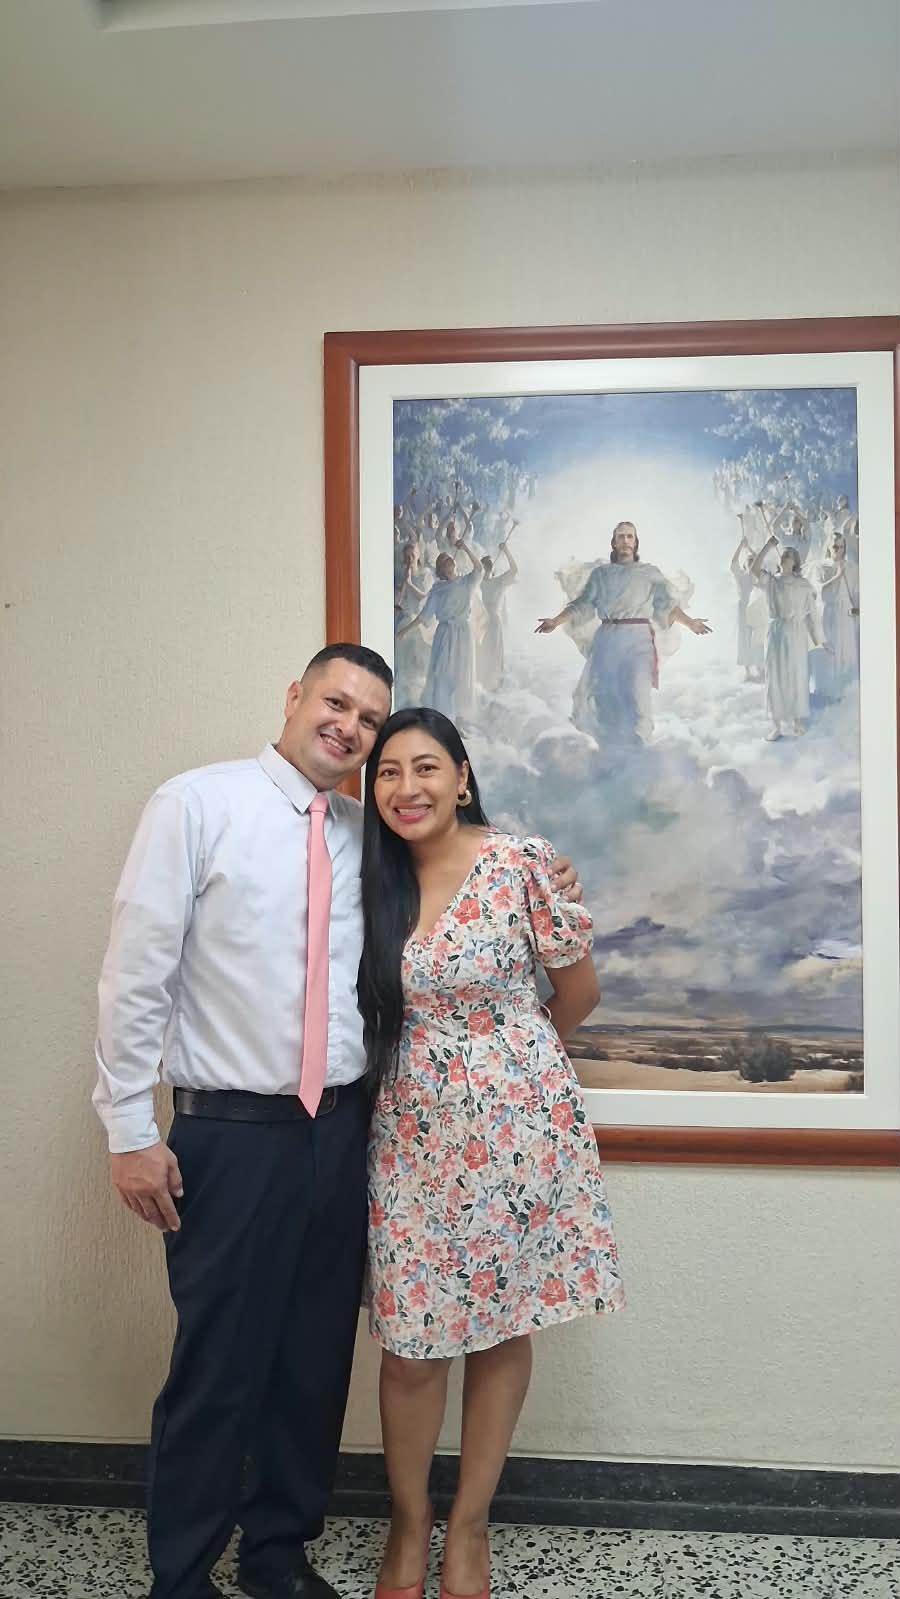
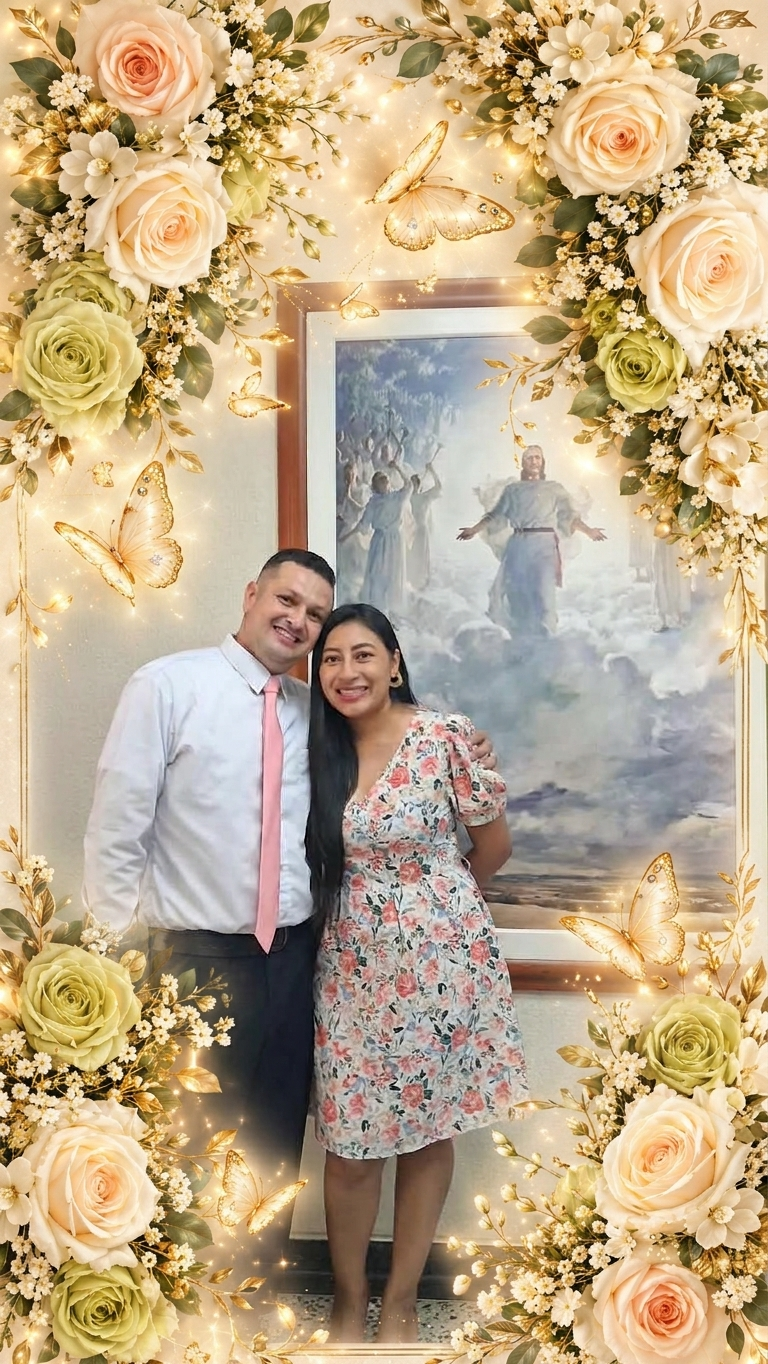
Publicar nueva foto y música incrustada
Sustituye la foto de la pareja, elimina el título solicitado y conserva el mensaje de bienvenida actualizado. Reproduce el video oficial completo de la canción dentro de la invitación al abrir el sello, con control interno de pausa.

diff --git a/index.html b/index.html
@@ -76,6 +76,7 @@ section{padding:72px 22px}.wrap{max-width:940px;margin:auto}.section-title{text-
 .music-control-section{text-align:center;padding-top:28px;padding-bottom:28px;background:#f5eedf}
 .music-button{display:inline-flex;align-items:center;justify-content:center;gap:12px;min-width:250px;padding:18px 32px;border:1px solid #d7bc7b;border-radius:999px;background:linear-gradient(135deg,#fffdf7,#f0e3c4);color:#4e5944;box-shadow:0 8px 20px #58462224,inset 0 1px 0 #fff;cursor:pointer;font:700 19px 'DM Sans',Arial,sans-serif;transition:transform .2s ease,box-shadow .2s ease}
 .music-button:hover,.music-button:focus-visible{transform:translateY(-3px);box-shadow:0 12px 24px #58462238,inset 0 1px 0 #fff}
+.youtube-song-player{position:fixed;left:-220px;top:-220px;width:200px;height:200px;opacity:0;pointer-events:none;overflow:hidden}
 footer{text-align:center;padding:45px 20px;background:var(--sage-dark);color:#fff8e8}footer h2{font-weight:normal;font-size:32px;margin:0 0 10px}
 .small{font:18px 'DM Sans',Arial,sans-serif;line-height:1.7;opacity:1;color:#34352f}
 .opening-effects{position:fixed;z-index:20;inset:0;overflow:hidden;pointer-events:none}
@@ -101,7 +102,6 @@ footer{text-align:center;padding:45px 20px;background:var(--sage-dark);color:#ff
       <div class="wrap">
         <div class="eyebrow">Con amor y gratitud</div>
         <h1 class="couple-names">Adriana Quina <span aria-hidden="true">&amp;</span> Jhon Espinosa</h1>
-        <h2 class="section-title">Nuestra historia, nuestro día</h2>
         <p class="subtitle">Dos corazones, un mismo destino y una promesa de amor eterno. Bienvenidos a celebrar el comienzo de nuestro para siempre y amor eterno.</p>
         <div class="photo-frame">
           <span class="floral-corner top-left" aria-hidden="true"></span>
@@ -164,10 +164,9 @@ footer{text-align:center;padding:45px 20px;background:var(--sage-dark);color:#ff
     </section>
 
     <section class="music-control-section" aria-label="Música de la invitación">
-      <a class="music-button" href="https://open.spotify.com/track/0gjhhuqKxswtR1KzYSpSfd" target="_blank" rel="noopener">
-        <span aria-hidden="true">♫</span><span>Escuchar canción completa</span>
-      </a>
-      <p class="small">La canción completa se abre en Spotify.</p>
+      <button class="music-button" id="musicToggle" type="button" aria-pressed="false">
+        <span aria-hidden="true">♫</span><span id="musicButtonLabel">Escuchar música</span>
+      </button>
     </section>
 
     <footer>
@@ -176,6 +175,7 @@ footer{text-align:center;padding:45px 20px;background:var(--sage-dark);color:#ff
       <div class="small">4 de diciembre de 2026 · Popayán, Cauca</div>
     </footer>
   </div>
+  <div class="youtube-song-player" aria-hidden="true"><div id="youtubeSongPlayer"></div></div>
 </main>
 <script>
 const weddingDate = new Date('2026-12-04T17:00:00-05:00');
@@ -199,6 +199,49 @@ function makeCalendar(){
  for(let d=1;d<=count;d++){let e=document.createElement('span');e.textContent=d;if(d===weddingDay)e.className='wedding';target.appendChild(e);}
 }
 const cover=document.getElementById('cover'), invite=document.getElementById('invite');
+const musicToggle=document.getElementById('musicToggle');
+const musicButtonLabel=document.getElementById('musicButtonLabel');
+let weddingMusicPlayer=null;
+let musicRequested=false;
+function setMusicState(playing,label){
+ musicToggle.setAttribute('aria-pressed',String(playing));
+ musicButtonLabel.textContent=label;
+}
+function playWeddingMusic(){
+ musicRequested=true;
+ if(weddingMusicPlayer){
+  weddingMusicPlayer.playVideo();
+  setMusicState(true,'Iniciando música…');
+ }else{
+  setMusicState(false,'Preparando música…');
+ }
+}
+window.onYouTubeIframeAPIReady=()=>{
+ const playerVars={autoplay:0,controls:0,disablekb:1,playsinline:1,rel:0};
+ if(location.protocol==='http:'||location.protocol==='https:')playerVars.origin=location.origin;
+ weddingMusicPlayer=new YT.Player('youtubeSongPlayer',{
+  width:'200',
+  height:'200',
+  videoId:'NoWqnjmh8KU',
+  playerVars,
+  events:{
+   onReady:(event)=>{if(musicRequested)event.target.playVideo();},
+   onStateChange:(event)=>{
+    if(event.data===YT.PlayerState.PLAYING)setMusicState(true,'Pausar música');
+    if(event.data===YT.PlayerState.PAUSED||event.data===YT.PlayerState.ENDED)setMusicState(false,'Escuchar música');
+   },
+   onError:()=>setMusicState(false,'No se pudo iniciar la música')
+  }
+ });
+};
+musicToggle.addEventListener('click',()=>{
+ if(weddingMusicPlayer&&musicToggle.getAttribute('aria-pressed')==='true'){
+  weddingMusicPlayer.pauseVideo();
+  setMusicState(false,'Escuchar música');
+ }else{
+  playWeddingMusic();
+ }
+});
 function createOpeningEffects(){
  const effects=document.createElement('div');
  effects.className='opening-effects';
@@ -234,7 +277,9 @@ function createOpeningEffects(){
 document.getElementById('openSeal').addEventListener('click',()=>{
  createOpeningEffects();
  cover.style.display='none'; invite.classList.add('show'); window.scrollTo({top:0,behavior:'smooth'});
+ playWeddingMusic();
 });
 makeCalendar();updateCountdown();setInterval(updateCountdown,1000);
 </script>
+<script src="https://www.youtube.com/iframe_api" async></script>
 </body></html>
